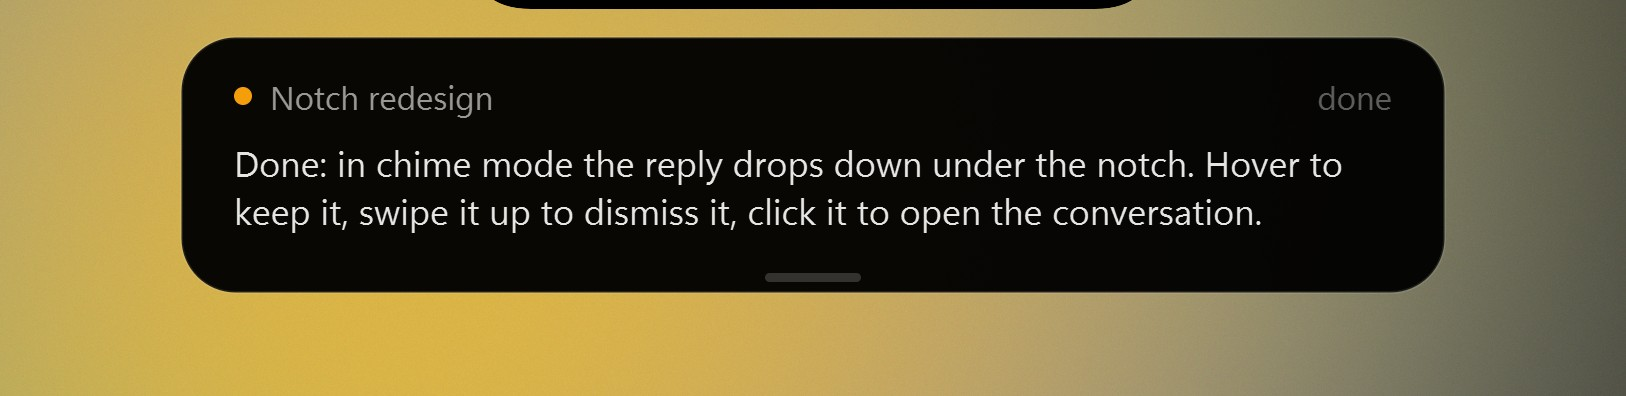
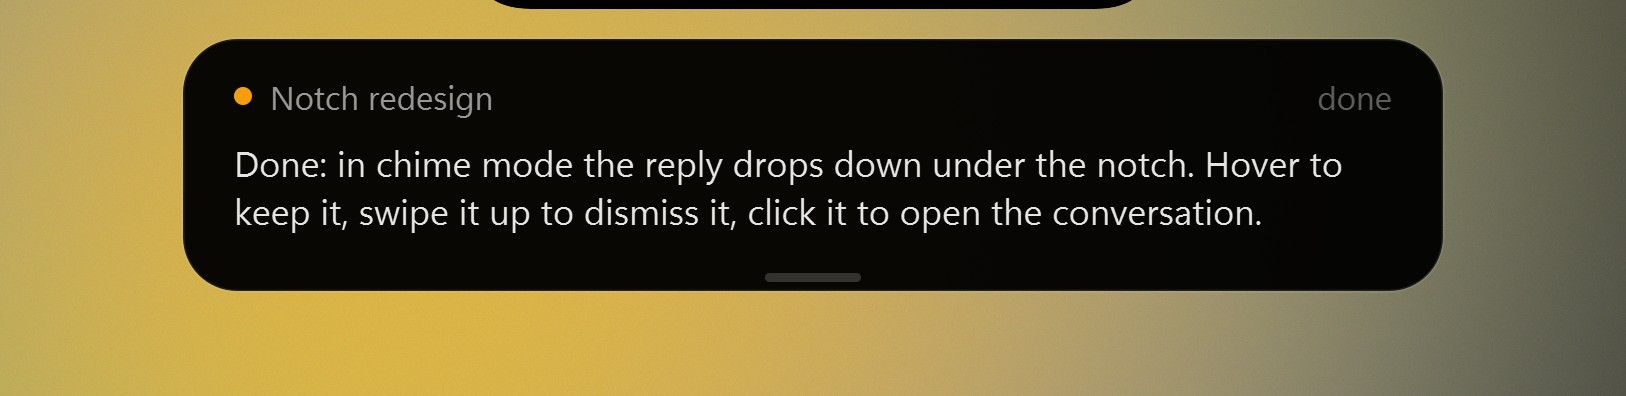
Show what you said under the notch, framed in green, with where it went
- After transcription, your words drop down as a banner in the listening colour, addressed to the
  conversation, tagged sent / typed / answer / command
- Live activity reads just "Thinking" before the first step
- README and guide: the new banner, with its image

diff --git a/agent_voice/server.py b/agent_voice/server.py
@@ -579,12 +579,12 @@ class Daemon:
         return {"text": textclean.clean(self._reading)[:1500], "title": title,
                 "color": thread_color(session or title), "session": session}
 
-    def _show_banner(self, text: str, session: str, source: str) -> None:
-        """Chime mode: what would have been said, as a notification (summary or full text, as set)."""
-        title = self._title(session, source)
+    def _show_banner(self, text: str, session: str, source: str, kind: str = "reply", tag: str = "") -> None:
+        """A notification under the notch: a reply in chime/silent mode, or ("you") what you just said."""
+        title = self._title(session, source) if session or source else ""
         self.banner = {"id": (self.banner or {}).get("id", 0) + 1, "text": textclean.clean(text)[:800],
                        "title": title, "color": thread_color(session or title), "session": session,
-                       "at": time.time()}
+                       "kind": kind, "tag": tag, "at": time.time()}
 
     def agent_states(self) -> dict[str, str]:
         """Which agents are connected; re-read every 30 s at most (status is polled 8 times a second)."""
@@ -638,8 +638,12 @@ class Daemon:
     def _set_level(self, value: float) -> None:
         self.level = value
 
-    def _heard(self, text: str, lang: str) -> None:
+    def _heard(self, text: str, lang: str, session: str | None = None, tag: str = "typed") -> None:
+        """You said something: keep it, and show it under the notch, marked as yours, before it goes out."""
         self.last_heard, self.last_heard_lang = text, lang
+        session = self._reply_session if session is None else session
+        self._show_banner(text, session, self.threads.get(session, {}).get("source", "") if session else "",
+                          kind="you", tag=tag)
         self.history = [{"text": text, "lang": lang, "at": round(time.time())}, *self.history][:5]
         self.state["history"] = self.history
         save_state(self.state)
@@ -814,7 +818,11 @@ class Daemon:
             log.info("auto-listen lang=%s chars=%d", lang, len(text))
             if self._listen_cancel.is_set() or is_hallucination(text):
                 return
-            self._heard(text, lang)
+            answering = (permission is not None and permission is self.permission) or (
+                question is not None and question is self.question)
+            tag = ("answer" if answering else "command" if match_command(text)
+                   else "sent" if self.hands_free or force_submit else "typed")
+            self._heard(text, lang, session, tag=tag)
             if permission is not None and permission is self.permission:
                 allow = match_yes_no(text)
                 if allow is None:
@@ -1105,7 +1113,7 @@ class Daemon:
             log.info("wake word heard (%d chars follow)", len(command))
             session = self._voice_session or self._reply_session
             if len(command.split()) >= 3:
-                self._heard(command, lang)
+                self._heard(command, lang, session, tag="sent")
                 _beep(880, 60)
                 self._paste(command, self._hwnd_for(session), submit=True, session=session)
             else:
@@ -1266,8 +1274,9 @@ class Daemon:
             log.info("dictation lang=%s chars=%d", lang, len(text))
             if not text:
                 return
-            self._heard(text, lang)
-            self._paste(text, submit=self.hands_free or bool(self.config["stt"].get("auto_submit")))
+            submit = self.hands_free or bool(self.config["stt"].get("auto_submit"))
+            self._heard(text, lang, "", tag="sent" if submit else "typed")  # push-to-talk goes to the focused window
+            self._paste(text, submit=submit)
         except Exception:
             log.exception("push-to-talk failed")
         finally:

diff --git a/agent_voice/widget.py b/agent_voice/widget.py
@@ -378,22 +378,29 @@ class Banner(QWidget):
         p = QPainter(self)
         p.setRenderHint(QPainter.Antialiasing)
         p.setRenderHint(QPainter.TextAntialiasing)
-        body = QRectF(0.5, 0.5, self.width() - 1, self.height() - 1)
-        p.setPen(QPen(QColor(255, 255, 255, 26 + (14 if self._hover else 0)), 1))
+        yours = self.item.get("kind") == "you"
+        body = QRectF(1, 1, self.width() - 2, self.height() - 2)
+        if yours:
+            # Your words get the listening colour around them: never mistaken for the agent's.
+            p.setPen(QPen(QColor(16, 224, 160, 210 if self._hover else 170), 1.6))
+        else:
+            p.setPen(QPen(QColor(255, 255, 255, 26 + (14 if self._hover else 0)), 1))
         p.setBrush(QColor(0, 0, 0, 245))
         p.drawRoundedRect(body, 18, 18)
-        color = QColor(self.item.get("color") or "#94A3B8")
+        color = QColor("#10E0A0" if yours else self.item.get("color") or "#94A3B8")
         p.setPen(Qt.NoPen)
         p.setBrush(color)
         p.drawEllipse(QPointF(21, 20), 3, 3)
         p.setFont(self.f_head)
         p.setPen(QColor(255, 255, 255, 150))
-        head = QFontMetrics(self.f_head).elidedText(self.item.get("title") or "Reply", Qt.ElideRight,
-                                                     self.width() - 90)
+        title = self.item.get("title") or ""
+        if yours:
+            title = f"You  →  {title}" if title else "You said"
+        head = QFontMetrics(self.f_head).elidedText(title or "Reply", Qt.ElideRight, self.width() - 90)
         p.drawText(QRectF(30, 10, self.width() - 90, 20), Qt.AlignLeft | Qt.AlignVCenter, head)
         p.setPen(QColor(255, 255, 255, 90))
         p.drawText(QRectF(0, 10, self.width() - 18, 20), Qt.AlignRight | Qt.AlignVCenter,
-                   "speaking" if self.holding else "done")
+                   "speaking" if self.holding else self.item.get("tag") or "done")
         p.setFont(self.f_text)
         p.setPen(QColor(255, 255, 255, 228))
         fm = QFontMetrics(self.f_text)
@@ -1129,7 +1136,9 @@ class VoiceWidget(QWidget):
             line = ""  # the text is in the banner below: the hint instead of the same sentence twice
         if not line and act:
             steps = act["steps"]
-            line = f"{act.get('label') or 'Thinking'} · {steps} step{'s' if steps != 1 else ''}"
+            line = act.get("label") or "Thinking"
+            if steps:
+                line += f" · {steps} step{'s' if steps != 1 else ''}"
         if not line:
             q = self._question()
             if q:

diff --git a/scripts/render_docs.py b/scripts/render_docs.py
@@ -268,6 +268,22 @@ def render_read_along() -> None:
     img.convert("RGB").save(OUT / "read-along.jpg", quality=90, optimize=True)
 
 
+def render_you_said() -> None:
+    """What you said, framed in the listening colour, as it goes to the conversation."""
+    w, shot, k = notch_shot(status("idle", activity={"session": "a", "title": "Notch redesign", "color": "#F59E0B",
+                                                     "label": "Thinking", "steps": 0, "elapsed": 1, "others": 0}))
+    b = W.Banner()
+    b.present({"id": 2, "kind": "you", "tag": "sent", "title": "Notch redesign", "color": "#F59E0B",
+               "session": "a", "text": "Yes, ship it, and bump the version to 0.4.0 while you're at it."},
+              int(w.pw))
+    b.t = 1.0
+    banner = to_pil(b.grab().toImage())
+    w_, h_ = shot.width + int(120 * k), shot.height + banner.height + int(40 * k)
+    img = drop(backdrop(w_, h_, seed=17), shot, (w_ - shot.width) // 2, 0)
+    img = drop(img, banner, (w_ - banner.width) // 2, shot.height + int(8 * k))
+    img.convert("RGB").save(OUT / "you-said.jpg", quality=90, optimize=True)
+
+
 def render_bar() -> None:
     """The floating glass bar, the other way to show it (right-click > Notch to switch)."""
     wd = make_widget(status("speaking", speaking_lang="en"))
@@ -345,6 +361,7 @@ def main() -> None:
     render_panel()
     render_banner()
     render_read_along()
+    render_you_said()
     render_bar()
     render_gif()
     for f in sorted(OUT.iterdir()):

diff --git a/tests/test_core.py b/tests/test_core.py
@@ -420,3 +420,10 @@ def test_read_along_follows_the_voice(daemon):
     daemon.state["chime"] = True
     daemon.speaker.busy = True
     assert daemon.status()["reading"] is None  # no voice in chime mode: the end-of-turn banner instead
+
+
+def test_what_you_said_shows_as_yours(daemon):
+    daemon.threads["a"] = {"source": "claude", "last": 0}
+    daemon._heard("Yes, ship it.", "en", "a", tag="sent")
+    assert daemon.banner["kind"] == "you" and daemon.banner["tag"] == "sent"
+    assert daemon.banner["text"] == "Yes, ship it." and daemon.history[0]["text"] == "Yes, ship it."

diff --git a/README.md b/README.md
@@ -104,6 +104,14 @@ The edge light only shows while the voice or the mic is live: it doubles as a "m
 
 While a reply is read out, its text hangs under the notch, starting at the sentence you're hearing, and disappears when the voice stops. Swipe it up to hide it for this reply; click it to open the conversation. (`read_along: false` turns it off.)
 
+### What you said, before it goes
+
+<p align="center">
+  <img src="docs/images/you-said.jpg" alt="What you said, framed in green, as it is sent to the conversation" width="640">
+</p>
+
+Once your reply is transcribed, it drops down under the notch framed in green, the colour of your voice, so it's never mistaken for the agent's text: who it goes to, and whether it was **sent** (auto-send), **typed** into the prompt for you to check, taken as an **answer** to a question or approval, or as a **command**.
+
 ### Chimes and Silent: the reply as a banner
 
 <p align="center">

diff --git a/docs/guide.md b/docs/guide.md
@@ -53,7 +53,8 @@ You should hear nothing yet. At the top centre of the screen there's a thin blac
 4. When the voice stops, a **short beep** plays and the notch turns green: **Listening**.
 5. Talk. It switches to **Hearing you** and follows your voice. Pause for 1.5 s to finish.
 6. A second beep, **Transcribing**, and your words appear in that conversation's prompt box.
-7. Press **Enter** to send, or turn on **auto-send** so it's sent for you.
+7. What you said also drops down under the notch, framed in green, with where it went (*sent* or *typed*).
+8. Press **Enter** to send, or turn on **auto-send** so it's sent for you.
 
 If you say nothing for 15 s, a low beep closes the mic. Nothing is typed.
 
